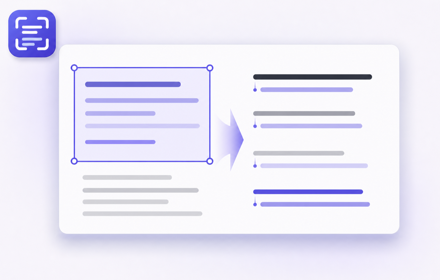
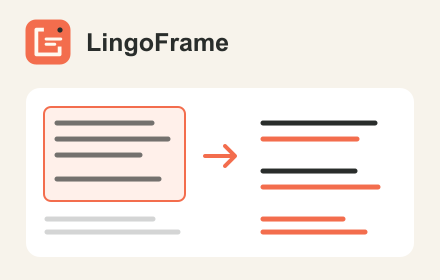
Release v0.3.0 with Chinese store localization and refreshed branding

Changed region(s): [[0.0, 0.0286, 0.9455, 0.9143], [0.5614, 0.2571, 0.8568, 0.3429]]

diff --git a/wxt.config.ts b/wxt.config.ts
@@ -11,7 +11,7 @@ export default defineConfig({
   manifest: {
     name: "LingoFrame",
     description: "__MSG_extensionDescription__",
-    default_locale: "en",
+    default_locale: "zh_CN",
     minimum_chrome_version: "102",
     permissions: ["activeTab", "scripting", "storage"],
     optional_host_permissions: [

diff --git a/docs/chrome-web-store-submission.md b/docs/chrome-web-store-submission.md
@@ -1,8 +1,41 @@
 # Chrome Web Store Submission
 
-This document contains copy-ready metadata and reviewer notes for the first public LingoFrame release. Keep every field aligned with the behavior of the submitted package.
+This document contains copy-ready metadata and reviewer notes for LingoFrame. Keep every field aligned with the behavior of the submitted package.
 
-## Product details
+## Store languages
+
+The package supports Simplified Chinese (`zh_CN`, default) and English (`en`). After uploading the package, select each locale at the top of the Store listing page and save its description. Store languages describe the extension's localization; the translation target is configured separately and defaults to Simplified Chinese.
+
+## 简体中文商店介绍
+
+### 名称
+
+LingoFrame
+
+### 简介
+
+选择区域，翻译你关心的内容。
+
+### 详细说明
+
+LingoFrame 是一款网页区域翻译扩展，适合阅读英文文章、技术文档、评论和讨论。选择你想读的内容区域，即可在原文旁逐段查看中文译文，保留阅读上下文。
+
+点击工具栏中的 LingoFrame 图标，或按 Alt+Shift+L，将鼠标移到想翻译的区域并点击。译文会依次出现在对应原文之后，方便中英对照阅读。按 Esc 可退出区域选择。
+
+主要功能：
+
+- 按需翻译所选区域中的文字，适用于文章、评论、聊天消息、表格和侧栏。
+- 原文与译文逐段对应，支持保留链接、粗体、斜体和行内代码等格式。
+- 支持 DeepSeek 和兼容 OpenAI Chat Completions API 的服务，也可连接本地模型服务。
+- 默认翻译为简体中文，可选择其他目标语言或输入自定义语言。
+- 可自定义翻译要求，包括术语、语气和表达风格。
+- 设置界面支持简体中文和英文，可跟随浏览器语言或手动切换。
+
+使用前，请在设置页填写你自己的翻译服务 API Key，并选择服务和模型。扩展免费使用；翻译服务可能按其规则收费。
+
+你选中区域中的文字会直接发送到你配置的翻译服务。API Key 和设置保存在本地浏览器中，LingoFrame 不运营中转翻译服务器。
+
+## English store listing
 
 ### Name
 
@@ -10,27 +43,26 @@ LingoFrame
 
 ### Summary
 
-Select a webpage region and translate only the readable text inside it with your chosen AI provider.
+Select a region. Translate what matters.
 
 ### Detailed description
 
-LingoFrame gives you a focused way to translate the part of a webpage that matters.
+LingoFrame translates the part of a webpage you choose, with each translation displayed immediately after its original text. Read articles, technical documentation, comments, and discussions in a bilingual layout without losing context.
 
-Activate the extension from the toolbar or with `Alt+Shift+L`, point to a content Region, and click to translate. LingoFrame keeps the original content in place and inserts each translation immediately after its corresponding source block, creating an easy-to-read bilingual layout.
-
-LingoFrame is useful for articles, comments, posts, chat messages, table cells, document paragraphs, sidebars, and cards. Scanning stays strictly inside the Region you confirm.
+Click the LingoFrame toolbar icon or press Alt+Shift+L, point to the region you want to read, and click to translate. Press Esc to cancel region selection.
 
 Key features:
 
-- DevTools-style Region Picker with hover highlighting and Escape cancellation.
-- Region-bounded readable-text scanning.
-- Interleaved source and translated content.
-- DeepSeek and OpenAI Chat Completions-compatible providers.
-- User-controlled target language, model, endpoint, and API Key.
-- On-demand `activeTab` access and optional permission for the configured provider origin.
-- API Key storage restricted to trusted extension contexts.
+- Translate text on demand within a selected region, including articles, comments, chat messages, tables, and sidebars.
+- Read original and translated text together, with support for links, bold, italics, and inline code formatting.
+- Connect to DeepSeek, OpenAI Chat Completions-compatible providers, or a local model service.
+- Translate into Simplified Chinese by default, choose another target language, or enter a custom language.
+- Customize translation instructions for terminology, tone, and writing style.
+- Use the settings interface in Simplified Chinese or English, following your browser language or your own selection.
 
-LingoFrame sends only the text from a Region you explicitly select to the provider you configure. It does not operate an intermediary translation server.
+Before using LingoFrame, enter your own provider API key and choose a service and model in settings. The extension is free; your translation provider may charge for API usage.
+
+Text in the region you select is sent directly to your configured translation provider. Your API key and settings are stored in your local browser. LingoFrame does not operate an intermediary translation server.
 
 ### Suggested category
 
@@ -103,7 +135,7 @@ Provide a temporary, rate-limited API Key in the private reviewer credential fie
 1. Install the submitted package and click the LingoFrame toolbar icon. The options page opens because no API Key is configured.
 2. Select the Provider specified in the private reviewer notes.
 3. Enter the supplied API Base URL, model, and temporary API Key.
-4. Keep `Simplified Chinese` as the target language, click `Test connection`, and confirm that `Provider connection succeeded` appears.
+4. Switch the interface language to English if needed. Keep `Simplified Chinese` as the target language, click `Test configuration`, and confirm that the configuration test succeeds.
 5. Click `Save settings` and approve the permission request for the configured Provider Origin.
 6. Open a normal HTTP or HTTPS page containing several paragraphs.
 7. Click the LingoFrame toolbar icon or press `Alt+Shift+L`.
@@ -130,7 +162,7 @@ Chrome internal pages and the Chrome Web Store cannot be used for this test beca
 5. Wait for the Release workflow to create the Draft GitHub Release.
 6. Download the Chrome ZIP and SHA-256 checksum from that Draft Release.
 7. Verify the uploaded manifest name, description, version, permissions, and optional host permissions.
-8. Upload the approved icon, screenshots, and promo tile.
+8. Save the Simplified Chinese and English descriptions above in their respective Store listing locales, and upload the approved icon, screenshots, and promo tile.
 9. Complete Store listing, Privacy practices, Distribution, and Test instructions.
 10. Upload the Release workflow's Chrome ZIP and submit for review with deferred publishing enabled.
 11. Publish the GitHub Release after the Chrome Web Store submission is approved.
